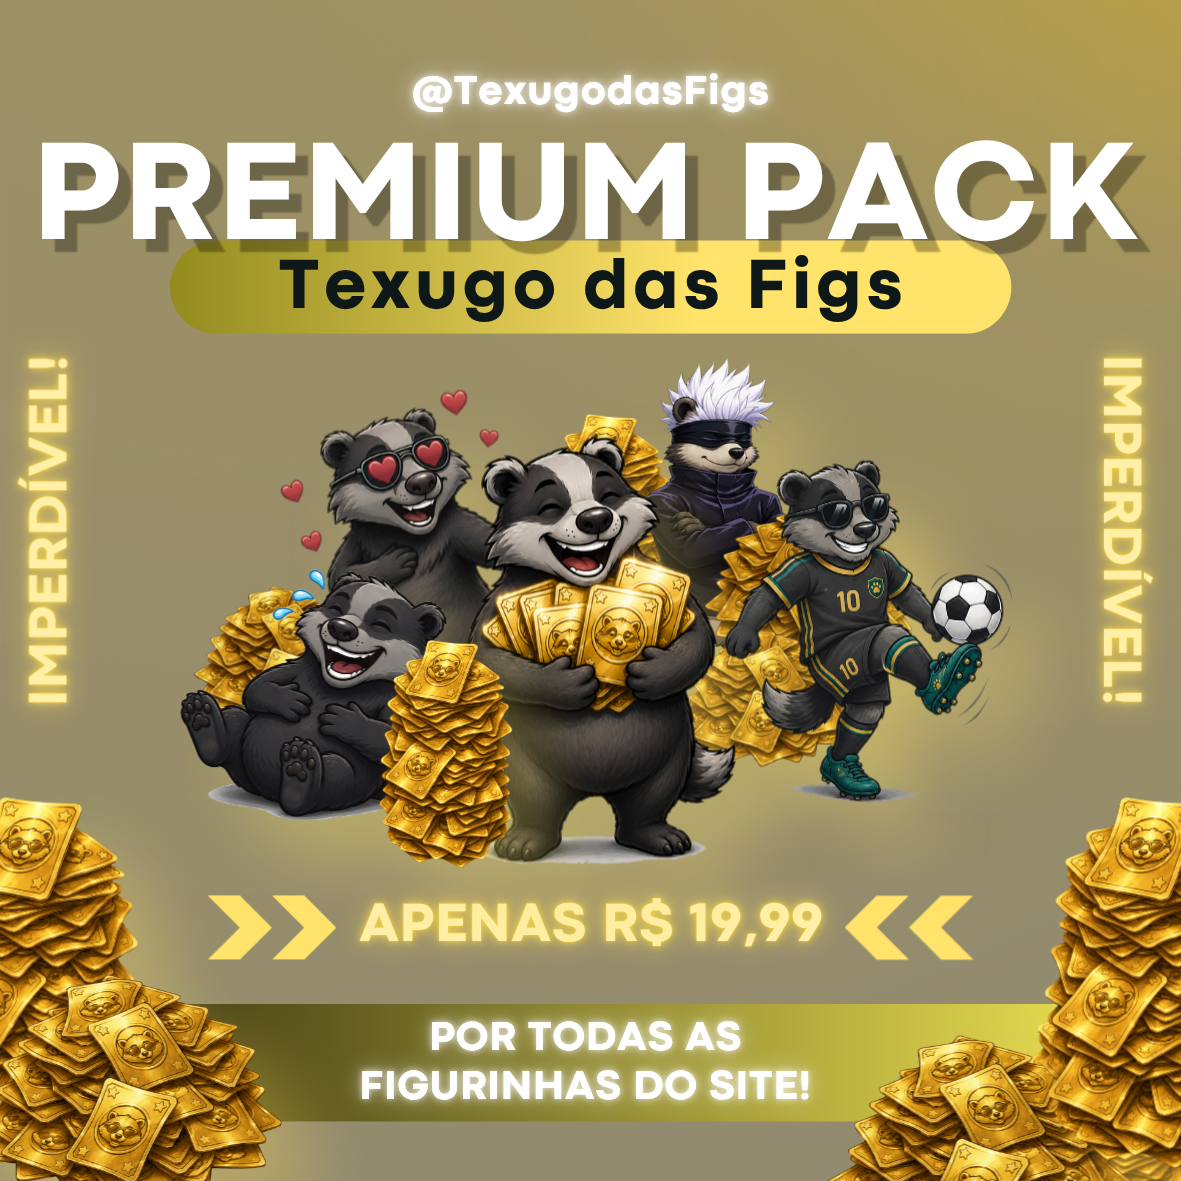
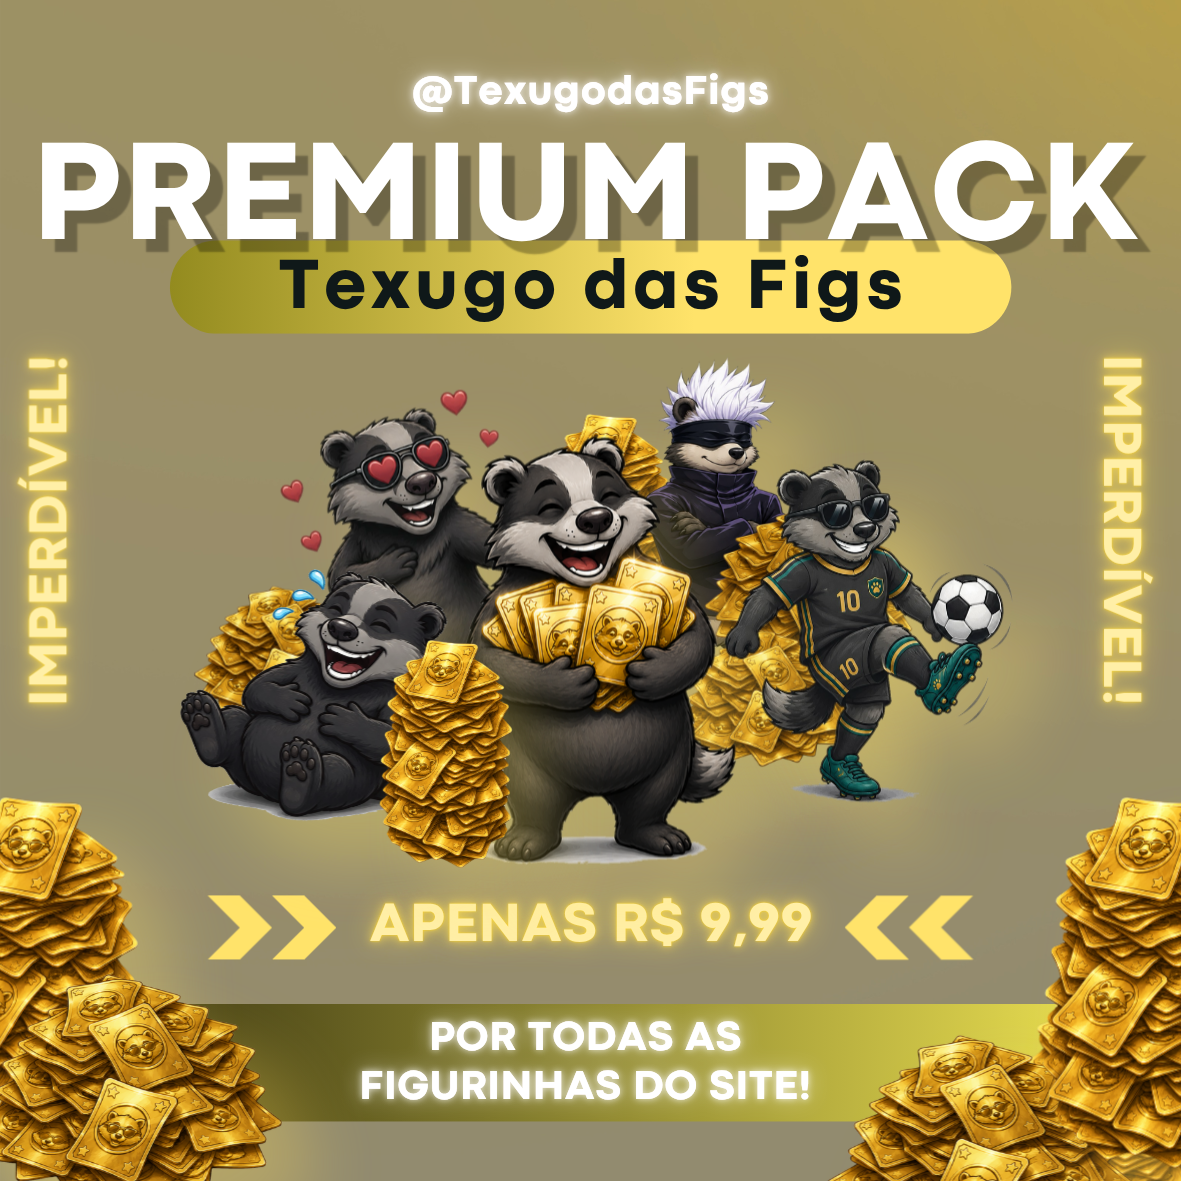
Atualizar preços e capas dos packs

Changed region(s): [[0.3048, 0.7621, 0.7011, 0.823]]

diff --git a/index.html b/index.html
@@ -78,7 +78,7 @@
 
     <section class="premium-section" id="premium">
       <div class="premium-image"><img src="assets/packs/03-premium.png" alt="Capa do Premium Pack"><span>MAIS VENDIDO</span></div>
-      <div class="premium-copy"><span class="eyebrow gold-text">O MELHOR CUSTO-BENEFÍCIO</span><h2>Todos os packs.<br>Uma única compra.</h2><p>Leve o acervo completo do Texugo das Figs e tenha sempre a reação perfeita à mão.</p><div class="premium-metric"><b>+640</b><span>figurinhas prontas para usar</span></div><ul><li>Todos os temas disponíveis</li><li>Figurinhas estáticas e animadas</li><li>Acesso vitalício</li><li>Pagamento único</li></ul><div class="premium-buy"><strong>R$ 19,99</strong><button class="button gold" data-buy="premium">Quero o Premium</button></div></div>
+      <div class="premium-copy"><span class="eyebrow gold-text">O MELHOR CUSTO-BENEFÍCIO</span><h2>Escolha todos os packs<br>que quiser.</h2><p>Pague uma única vez e tenha direito a solicitar todos os packs que quiser da loja — dos favoritos aos temas mais nichados.</p><div class="premium-metric"><b>12</b><span>packs disponíveis para você escolher</span></div><ul><li>Direito a todos os packs que quiser</li><li>Temas gerais e nichados</li><li>Acesso vitalício</li><li>Pagamento único</li></ul><div class="premium-buy"><strong>R$ 9,99</strong><button class="button gold" data-buy="premium">Quero o Premium</button></div></div>
     </section>
 
     <section class="custom-banner" id="personalizadas">
@@ -94,8 +94,8 @@
       <details><summary>Funciona em Android e iPhone?</summary><p>Sim. As figurinhas são preparadas para uso no WhatsApp em celulares Android e iPhone.</p></details>
       <details><summary>Como adiciono as figurinhas ao WhatsApp?</summary><p>Você receberá um passo a passo simples junto com o pack. Se precisar, o suporte ajuda durante a instalação.</p></details>
       <details><summary>As figurinhas animadas possuem som?</summary><p>Não. Tanto as figurinhas estáticas quanto as animadas são fornecidas sem áudio.</p></details>
-      <details><summary>O Premium realmente inclui todos os packs?</summary><p>Sim. O Premium reúne todos os packs disponíveis na loja no momento da compra, totalizando mais de 640 figurinhas.</p></details>
-      <details><summary>Posso comprar mais de um pack?</summary><p>Sim. Porém, se você deseja vários temas, o Premium oferece o melhor custo-benefício por reunir todo o acervo.</p></details>
+      <details><summary>Como funciona o direito aos packs no Premium?</summary><p>Ao comprar o Premium, você tem direito a solicitar todos os packs que quiser entre os disponíveis no site, sem pagar separadamente por cada tema.</p></details>
+      <details><summary>Posso comprar mais de um pack?</summary><p>Sim. Você pode comprar packs avulsos; se deseja vários temas, o Premium oferece o melhor custo-benefício e dá direito a todos os packs que quiser.</p></details>
       <details><summary>O pack Safadezas é indicado para qualquer idade?</summary><p>Não. Esse pack possui conteúdo adulto e é destinado exclusivamente a maiores de 18 anos.</p></details>
       <details><summary>O que faço se tiver algum problema?</summary><p>Entre em contato pelo WhatsApp, Instagram ou pelo e-mail texugodasfigs@gmail.com. O atendimento ajudará com o recebimento e o acesso.</p></details>
     </section>

diff --git a/data.js b/data.js
@@ -1,4 +1,5 @@
-// EDITE ESTE ARQUIVO para trocar links, preços, descrições e prévias.
+// EDITE ESTE ARQUIVO para trocar links, descrições e prévias.
+// Os preços vigentes ficam centralizados no bloco currentPrices ao final.
 // A ordem abaixo foi pensada para separar visualmente packs de cores parecidas.
 window.STORE = {
   socials: {
@@ -22,3 +23,28 @@ window.STORE = {
     {id:"league-of-legends",title:"League of Legends",category:"games",price:9.99,count:"+ de 60",image:"assets/packs/09-lol.png",mascot:"assets/emotes/lol.jpeg",color:"#374cb7",description:"Para comemorar a vitória, lamentar o feed e reagir como um verdadeiro invocador.",longDescription:"Um pack para quem conhece a alegria de uma vitória e a tristeza profunda de uma sequência de derrotas. Campeões, jogadores, jogadas duvidosas e reações para usar antes, durante e depois da partida — especialmente quando alguém culpa o jungler.",featuredPreview:"assets/previas/league-of-legends/lol-05.jpeg",previews:["assets/previas/league-of-legends/lol-01.mp4","assets/previas/league-of-legends/lol-02.mp4","assets/previas/league-of-legends/lol-03.jpeg","assets/previas/league-of-legends/lol-04.jpeg","assets/previas/league-of-legends/lol-05.jpeg"],payment:"https://mpago.la/2KBVoNj"}
   ]
 };
+
+// Valores confirmados nas páginas oficiais de pagamento em 04/08/2026.
+const currentPrices = {
+  premium: 9.99,
+  respostas: 4.99,
+  safadezas: 4.99,
+  trabalho: 4.99,
+  eleicoes: 2.99,
+  kpop: 4.99,
+  futebol: 4.99,
+  "divas-pop": 4.99,
+  gym: 2.49,
+  anime: 4.99,
+  cantadas: 4.99,
+  "league-of-legends": 4.99
+};
+
+window.STORE.packs.forEach(pack => {
+  pack.price = currentPrices[pack.id];
+  if (pack.id === "premium") {
+    pack.count = "Todos os packs";
+    pack.description = "Um único pagamento que dá direito a escolher todos os packs que quiser da loja — inclusive os temas mais nichados.";
+    pack.longDescription = "Com o Premium Pack, você não precisa escolher apenas um tema: pelo valor único do Premium, você tem direito a solicitar todos os packs que quiser disponíveis no site. Assim, pode montar sua coleção com humor, reações, futebol, anime, trabalho, fandoms e outros nichos, sem pagar separadamente por cada pack. O acesso é vitalício e o pagamento é feito uma única vez.";
+  }
+});

diff --git a/app.js b/app.js
@@ -7,7 +7,7 @@ window.addEventListener('pageshow',resetPageToTop,{once:true});
 const store=window.STORE;
 const packOrder=['premium','respostas','safadezas','anime','eleicoes','kpop','league-of-legends','divas-pop','gym','futebol','cantadas','trabalho'];
 store.packs.sort((a,b)=>packOrder.indexOf(a.id)-packOrder.indexOf(b.id));
-store.packs.forEach(pack=>{pack.count=pack.id==='premium'?'+ de 640':pack.id==='gym'?'+ de 40':'+ de 60'});
+store.packs.forEach(pack=>{pack.count=pack.id==='premium'?'Todos os packs':pack.id==='gym'?'+ de 40':'+ de 60'});
 const packs=store.packs;
 const badges={premium:'Acervo completo',respostas:'Mais vendido',safadezas:'Ousado',trabalho:'Popular agora',eleicoes:'Em alta',kpop:'Favorito',futebol:'Paixão nacional','divas-pop':'Icônico',gym:'Oferta',anime:'Otaku','league-of-legends':'Gamer',cantadas:'Para o crush'};
 const headlines={
